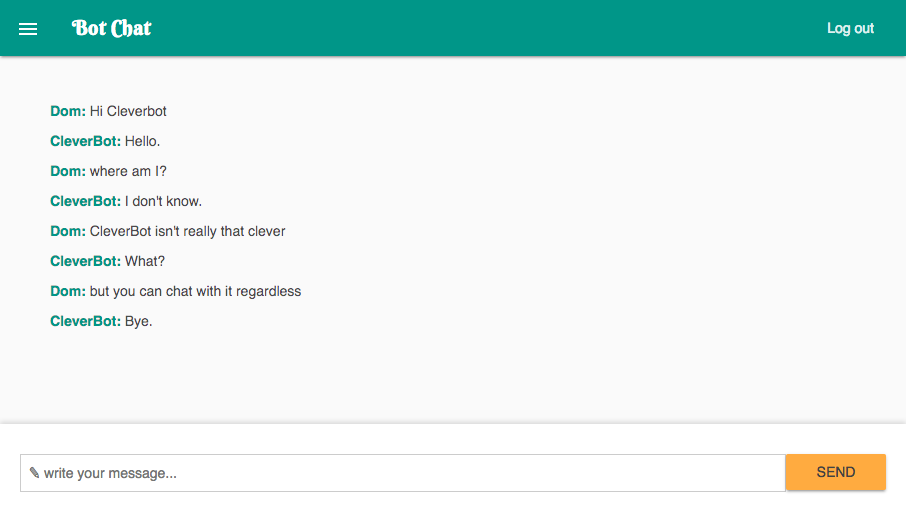
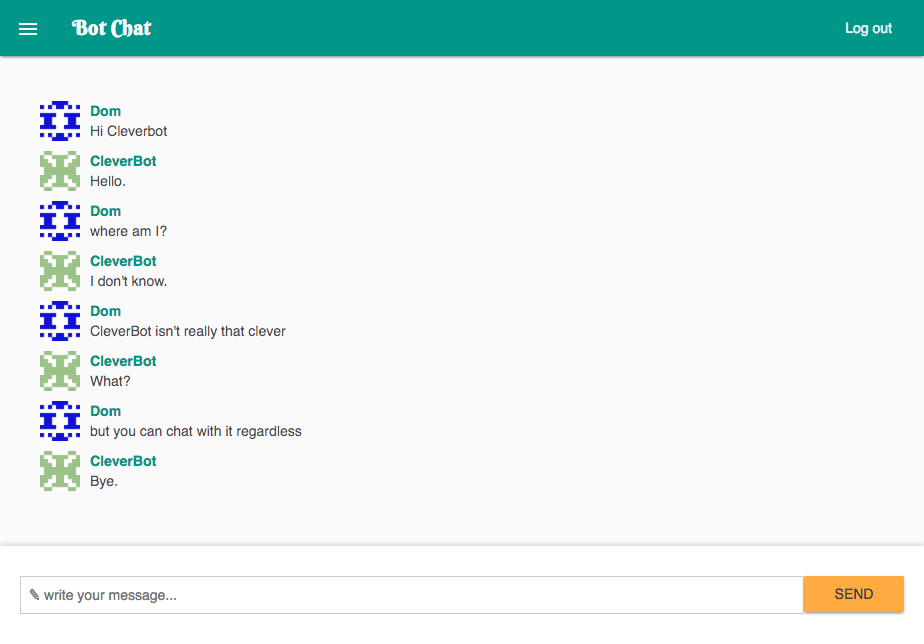
update README

diff --git a/README.md b/README.md
@@ -12,6 +12,18 @@ Bot Chat is a chat application that allows you to chat with an external chat bot
 
 I used [Elixir](http://elixir-lang.org/) and the [Phoenix Framework](http://www.phoenixframework.org/) to set up a chat application. It uses [WebSockets](https://developer.mozilla.org/en-US/docs/Web/API/WebSockets_API) to provide an interactive communication session with the server, and [PostgreSQL](https://www.postgresql.org/) to persist messages.
 
-I structured the app as an umbrella application to compose distinct parts as [Microservices](https://en.wikipedia.org/wiki/Microservices). There is a service for the chat application as well as a service for communicating with the chat bot API.
+I structured the app as an umbrella application to compose distinct parts as [Microservices](https://en.wikipedia.org/wiki/Microservices). There is a service for the chat application, a service for communicating with an external chat bot API, and a service that generates a unique [Identicon](https://en.wikipedia.org/wiki/Identicon) for each new user and stores the images in an [AWS S3](https://aws.amazon.com/s3/) bucket.
 
-I integrated the application with the [CleverBot](http://www.cleverbot.com/) API, which responds to messages posted in the CleverBot channel.
+## Services
+
+### Chat
+
+The chat application presents users with channels. Users can post messages to channels, and the messages will be broadcast to all connected users via WebSockets.
+
+### Bots
+
+I integrated the application with the [CleverBot](http://www.cleverbot.com/) API. When a message is posted in the CleverBot channel, the app sends a request to the CleverBot API and posts the received response.
+
+### Identicon
+
+The Identicon application creates an Identicon for every user when they sign up. It runs the username through a hashing function and generates a color and grid based on the resulting hash. It renders the grid as an image, then posts the image to an AWS S3 bucket.
